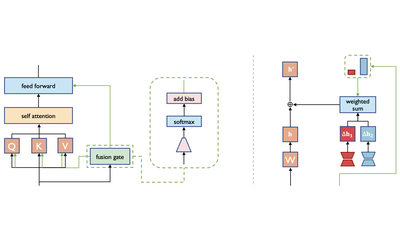
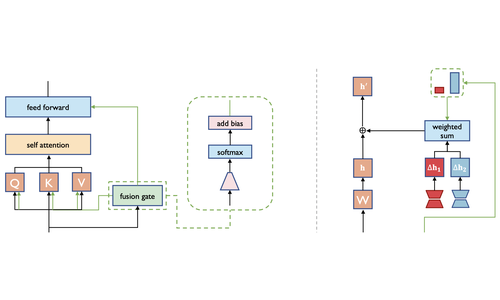
homepage: News and Selected Pubs as full-width sequential sections
Owner feedback: side-by-side grid still cramped Selected Publications
even after the asymmetric 1:2 fix. Drop the home-grid wrapper entirely
so News and Selected Publications stack vertically, each spanning the
full ~870px home-inner width.

Coordinated changes:
- about.md: remove <div class="home-grid"> wrapper; News and Pubs are
  now sibling .home-section.home-card blocks
- pub-teaser: 200x120 -> 250x150 (image area 56% larger, finally
  legible for diagram details)
- Source PNGs regenerated at 500x300 (2x retina) with the same
  letterbox-to-5:3 strategy
- align-self: center on pub-teaser so figure centers vertically when
  text is shorter than image height

The .home-grid SCSS rule is left in place as harmless dead CSS — kept
in case a future phase wants the side-by-side option back.

diff --git a/_sass/layout/_custom.scss b/_sass/layout/_custom.scss
@@ -818,15 +818,15 @@
 }
 
 /* Teaser image — left of pub-content. 5:3 aspect, sized for retina display.
-   Source PNGs are 400×240 with white letterbox padding to keep aspect uniform. */
+   Source PNGs are 500×300 with white letterbox padding to keep aspect uniform. */
 .pub-teaser {
-  width: 200px;
-  height: 120px;
+  width: 250px;
+  height: 150px;
   object-fit: cover;
   border-radius: 4px;
-  margin-right: 0.9rem;
+  margin-right: 1rem;
   flex-shrink: 0;
-  align-self: flex-start;
+  align-self: center;
   background-color: #fff;
 }
 

diff --git a/_pages/about.md b/_pages/about.md
@@ -69,8 +69,7 @@ redirect_from:
   </div>
 </div>
 
-<div class="home-grid">
-  <div class="home-section home-card">
+<div class="home-section home-card">
     <div class="section-label">News</div>
     <div class="news-section">
       <ul class="news-list">
@@ -167,4 +166,3 @@ redirect_from:
 
     </div>
   </div>
-</div>
